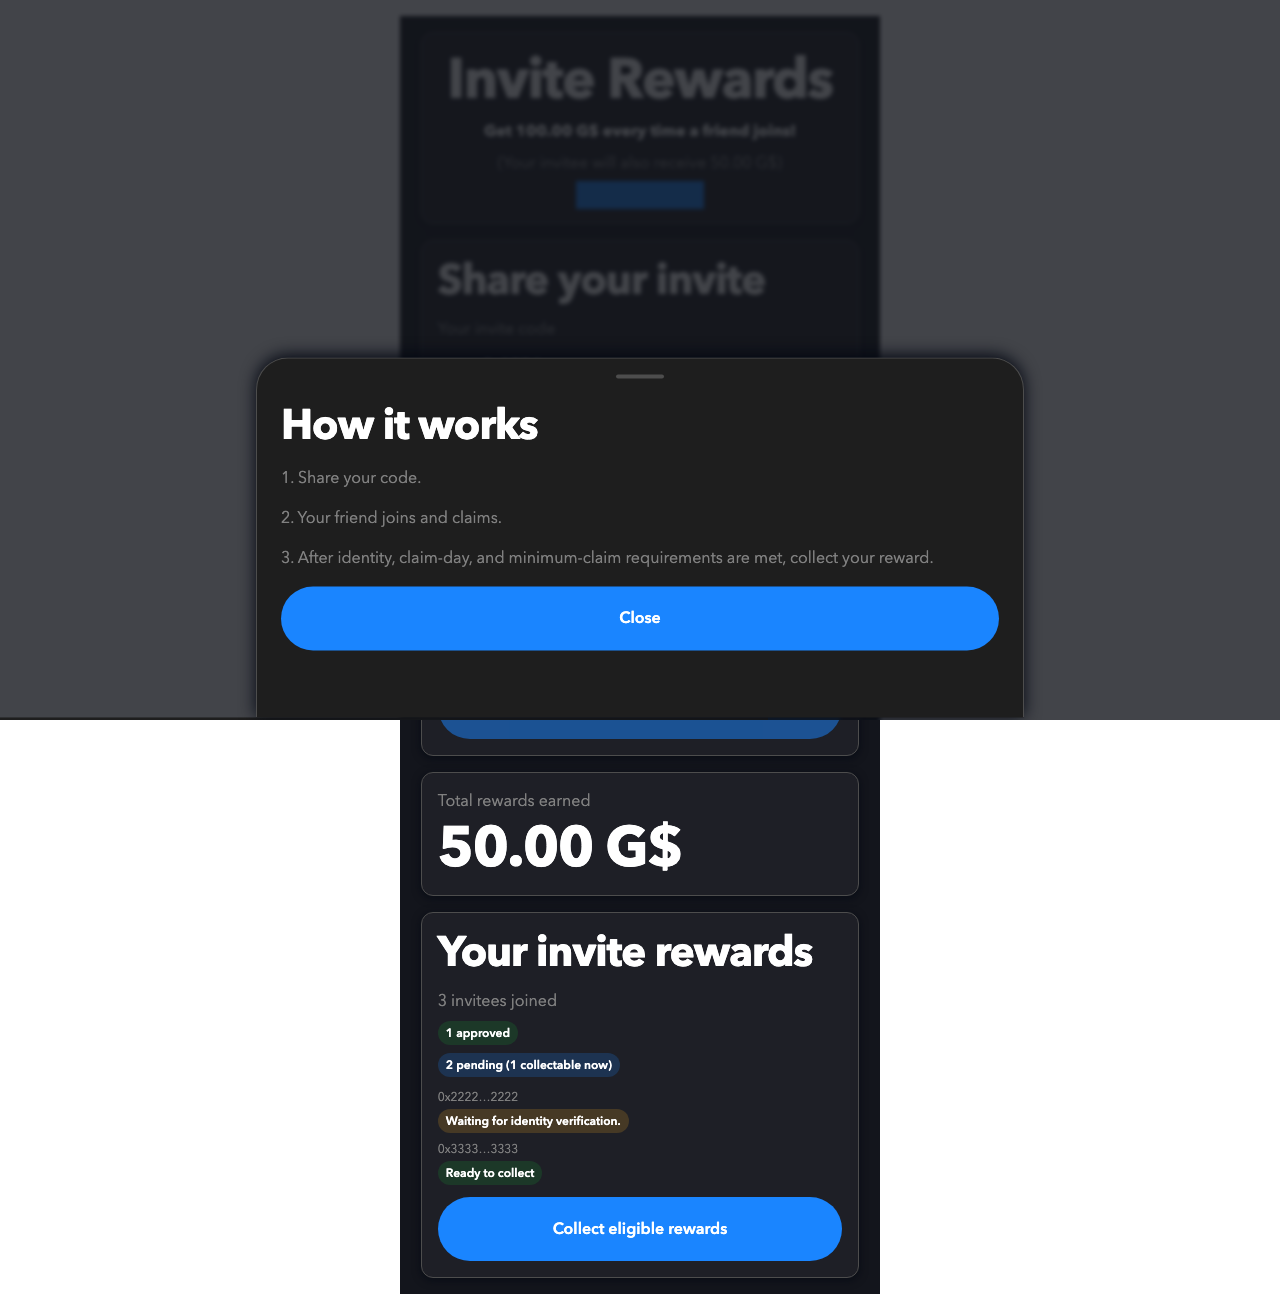
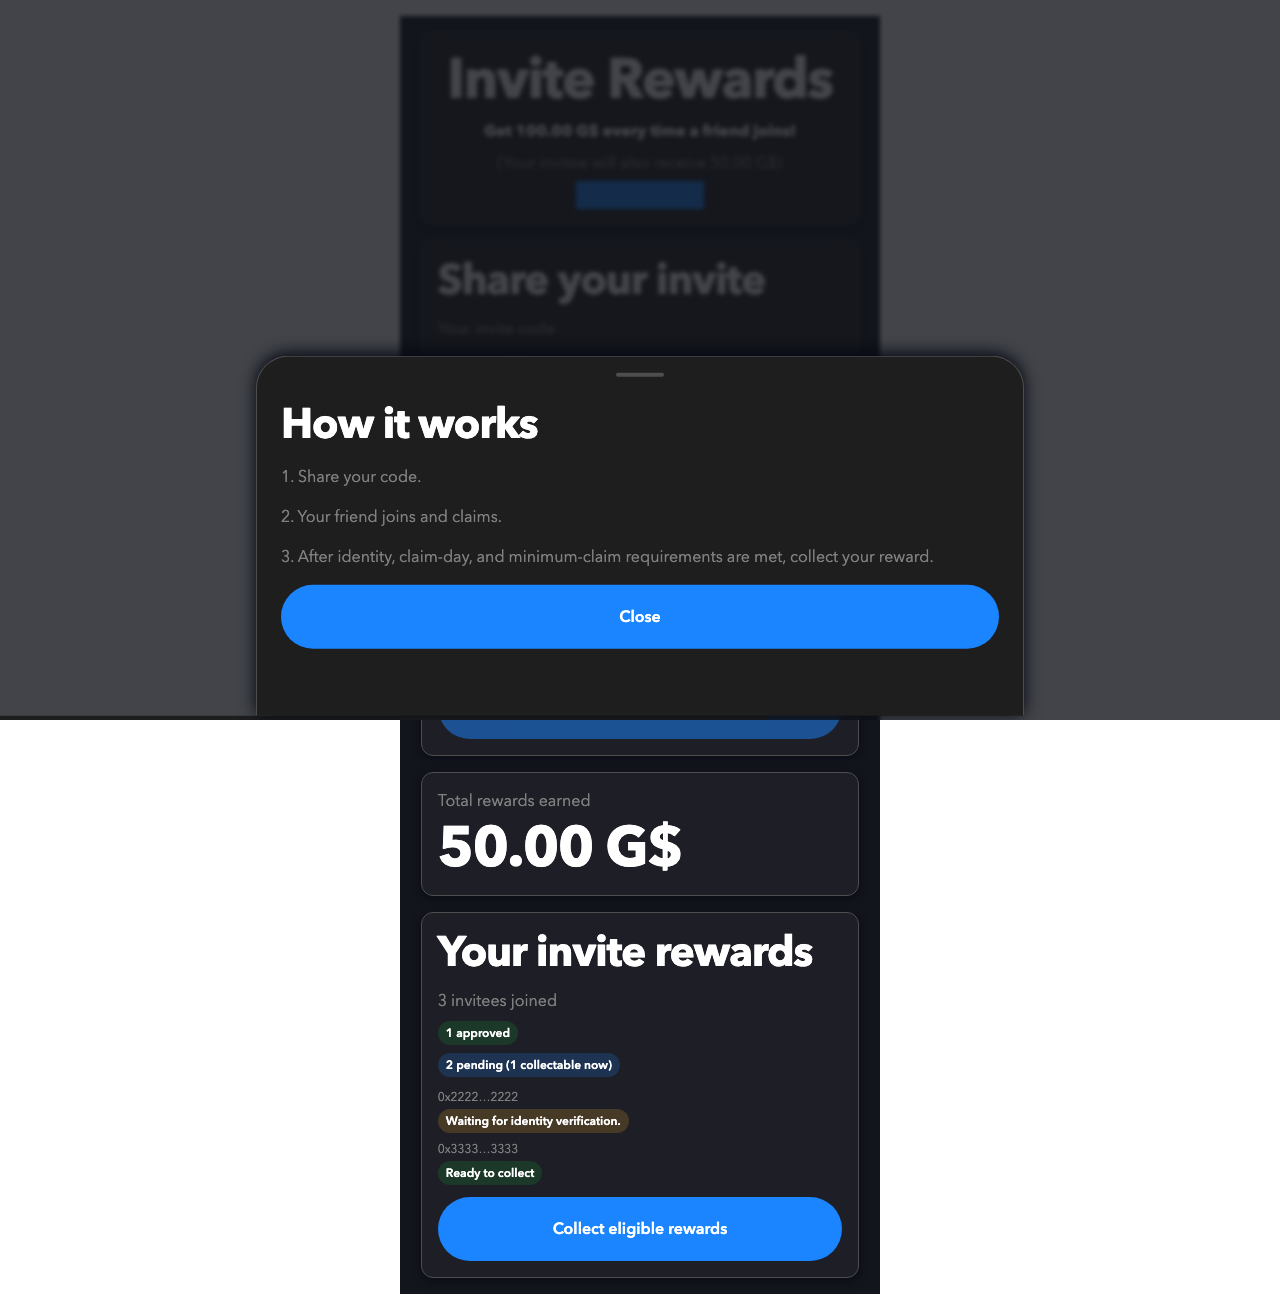
Hide the invitee-list card when there are no invitees yet
Matches GoodWallet's InviteesListBox, which is also omitted entirely
until there's at least one invitee to report on, instead of showing
an empty "0 approved / 0 pending" breakdown. The full approved/
pending/collectable status still shows in full once there is at
least one invitee, so this doesn't affect the acceptance criteria
around accurate invitee-status distinctions — it only removes noise
on a fresh account with nothing to report.

diff --git a/tests/widgets/citizen-claim-widget/inviteRewards.spec.ts b/tests/widgets/citizen-claim-widget/inviteRewards.spec.ts
@@ -61,13 +61,20 @@ test('Invite Rewards shows a hard error with retry when the initial load fails',
 
 // ─── Counts, labels, and empty state ────────────────────────────────────────
 
-test('Invite Rewards empty state offers code creation with no invitees yet', async ({ page }) => {
+test('Invite Rewards empty state offers code creation and hides the invitee list, mirroring GoodWallet', async ({
+  page,
+}) => {
   await gotoStory(page, 'empty')
   await expect(page.getByText('Create your invite code')).toBeVisible()
-  await expect(page.getByText('0 invitees joined')).toBeVisible()
-  await expect(page.getByText('0 approved')).toBeVisible()
-  await expect(page.getByText('Total rewards')).toBeVisible()
+  await expect(page.getByText('Total rewards earned')).toBeVisible()
   await expect(page.getByText('0.00 G$', { exact: true })).toBeVisible()
+  // With zero invitees, GoodWallet omits the invitee-list section entirely
+  // rather than showing an empty "0 approved / 0 pending" breakdown.
+  await expect(page.getByText('Your invite rewards')).toHaveCount(0)
+  await page.screenshot({
+    path: 'tests/widgets/citizen-claim-widget/test-results/ccw-16-invite-empty-state.png',
+    fullPage: true,
+  })
 })
 
 test('Invite Rewards labels approved/pending/collectable using protocol values, not raw invitee count', async ({

diff --git a/packages/citizen-claim-widget/src/InviteRewards.tsx b/packages/citizen-claim-widget/src/InviteRewards.tsx
@@ -290,7 +290,9 @@ export function InviteRewards() {
       <InviteShareCard />
       <InviteJoinCard />
       <TotalEarnedCard />
-      <InviteeStatus />
+      {/* Mirrors GoodWallet's InviteesListBox, which is also omitted entirely
+          until there is at least one invitee to report on. */}
+      {state.invitees.length > 0 && <InviteeStatus />}
     </YStack>
   )
 }